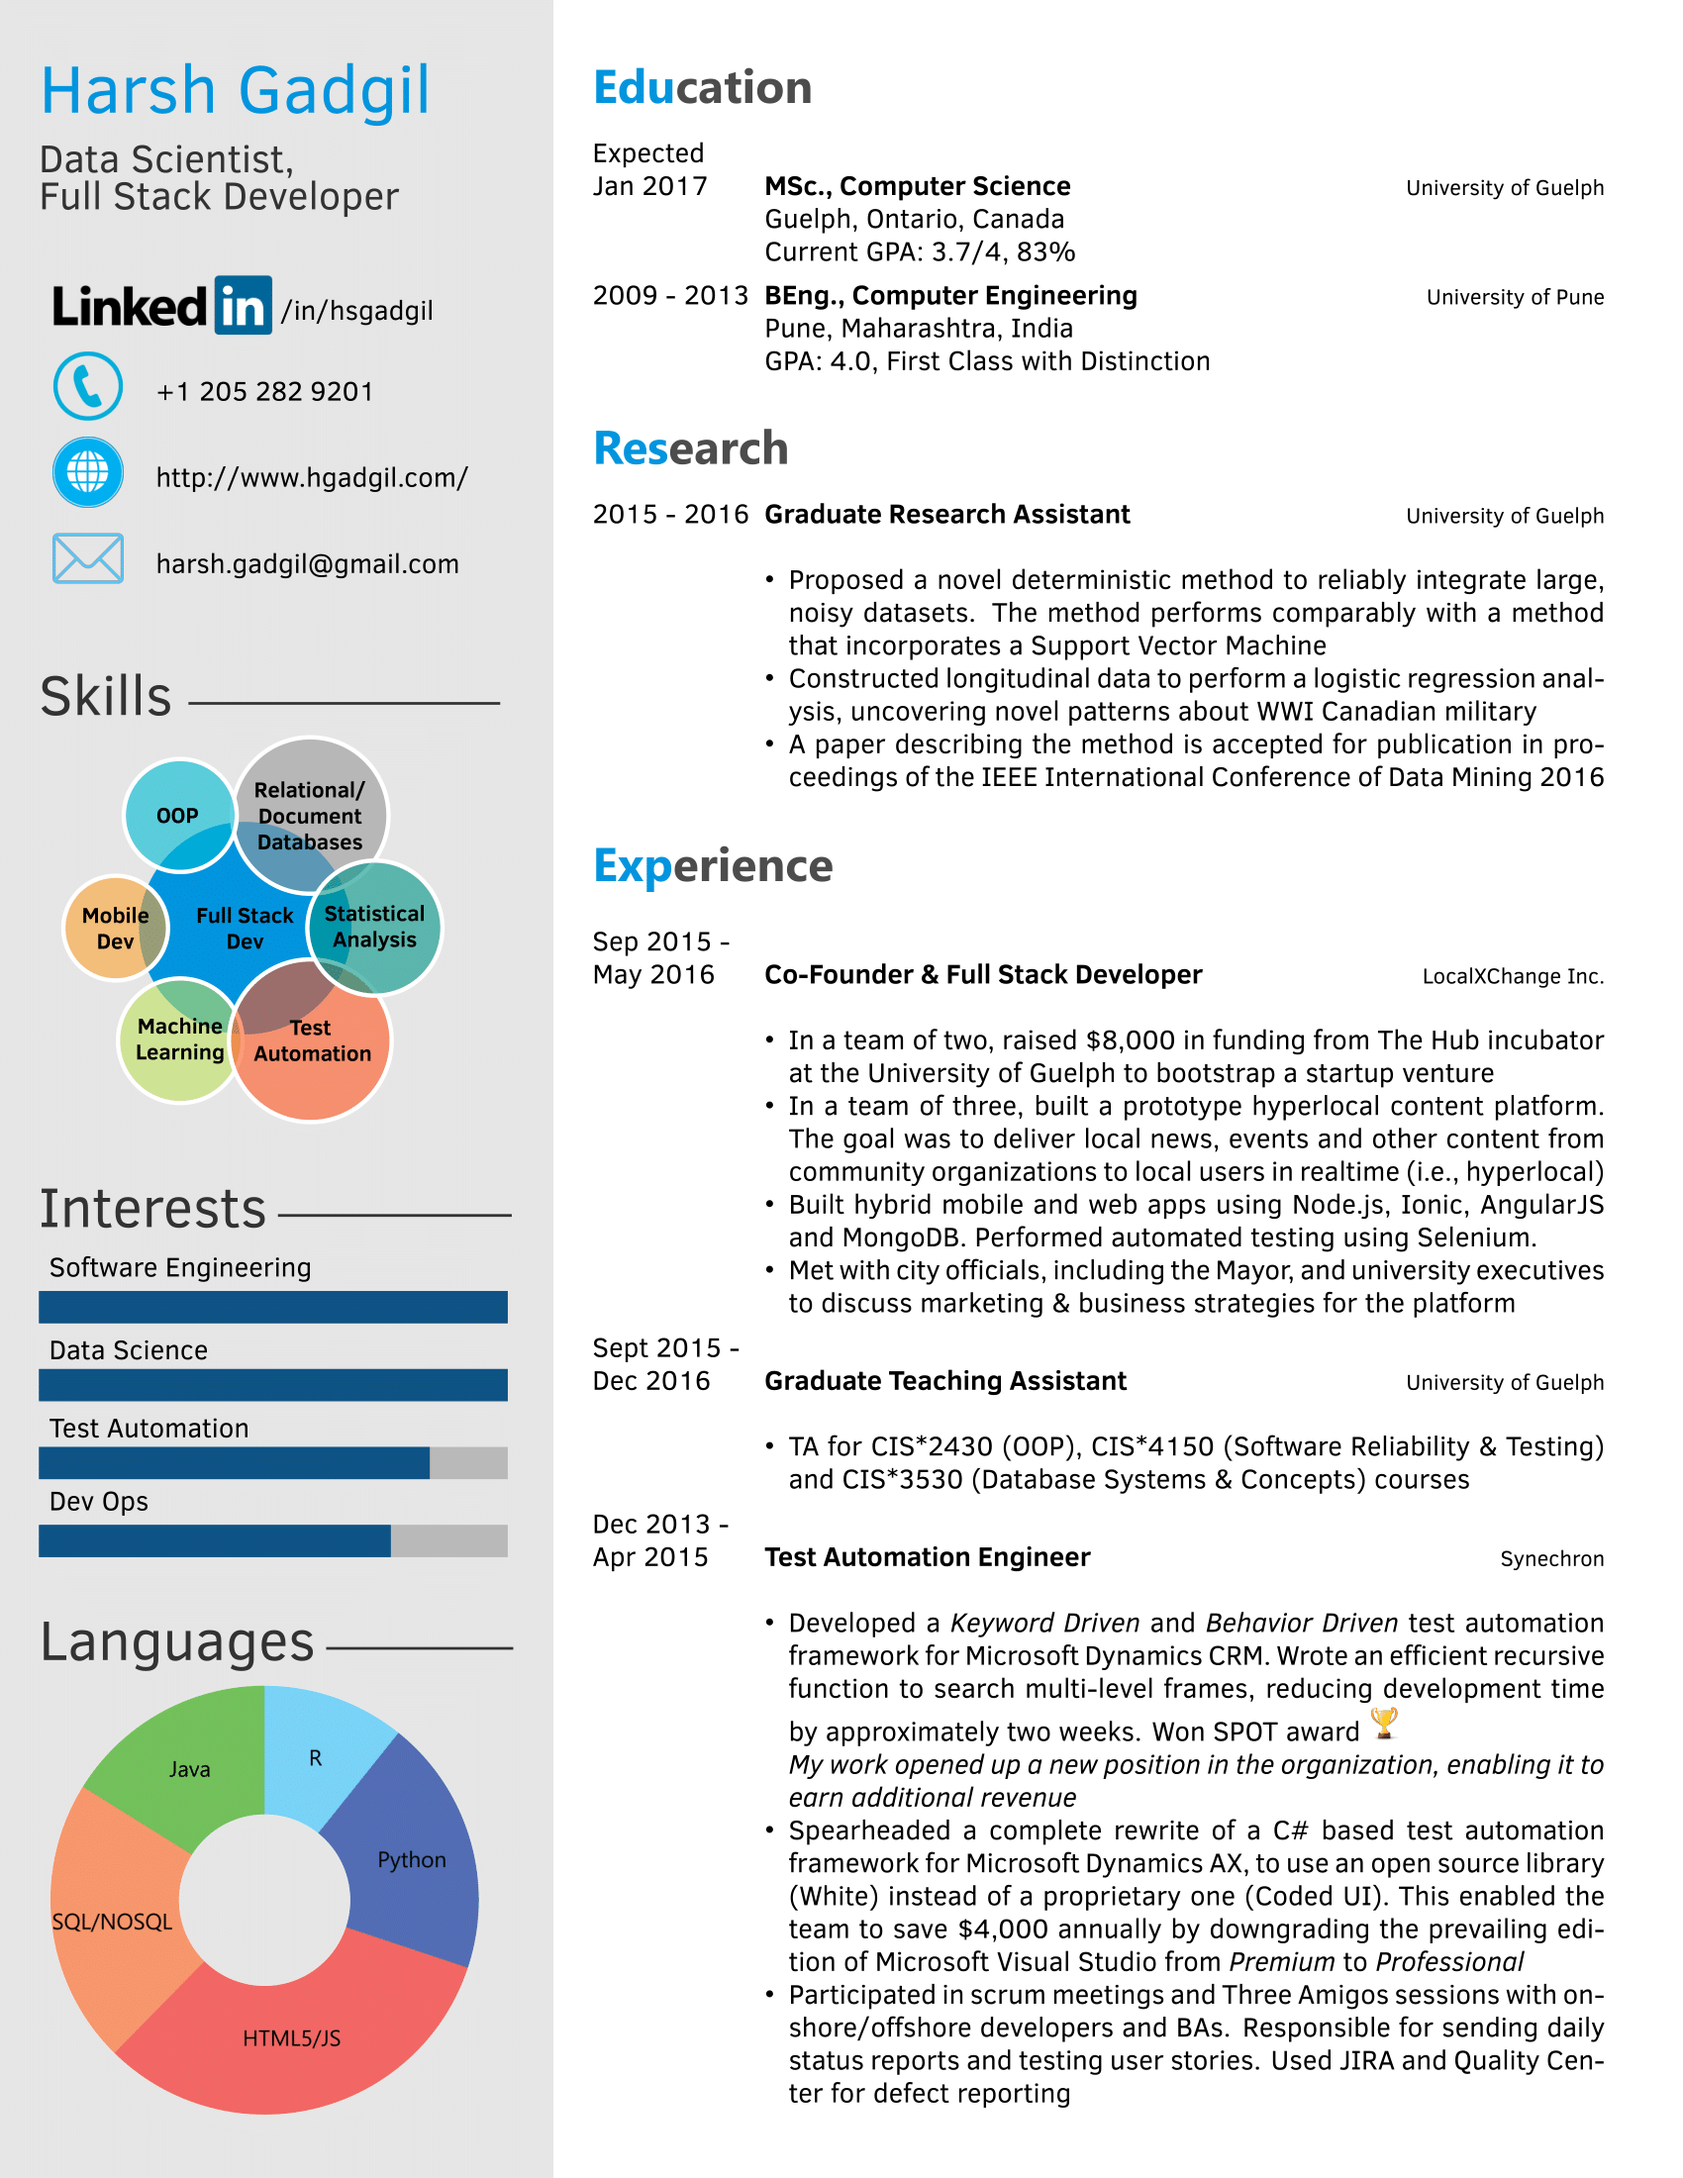
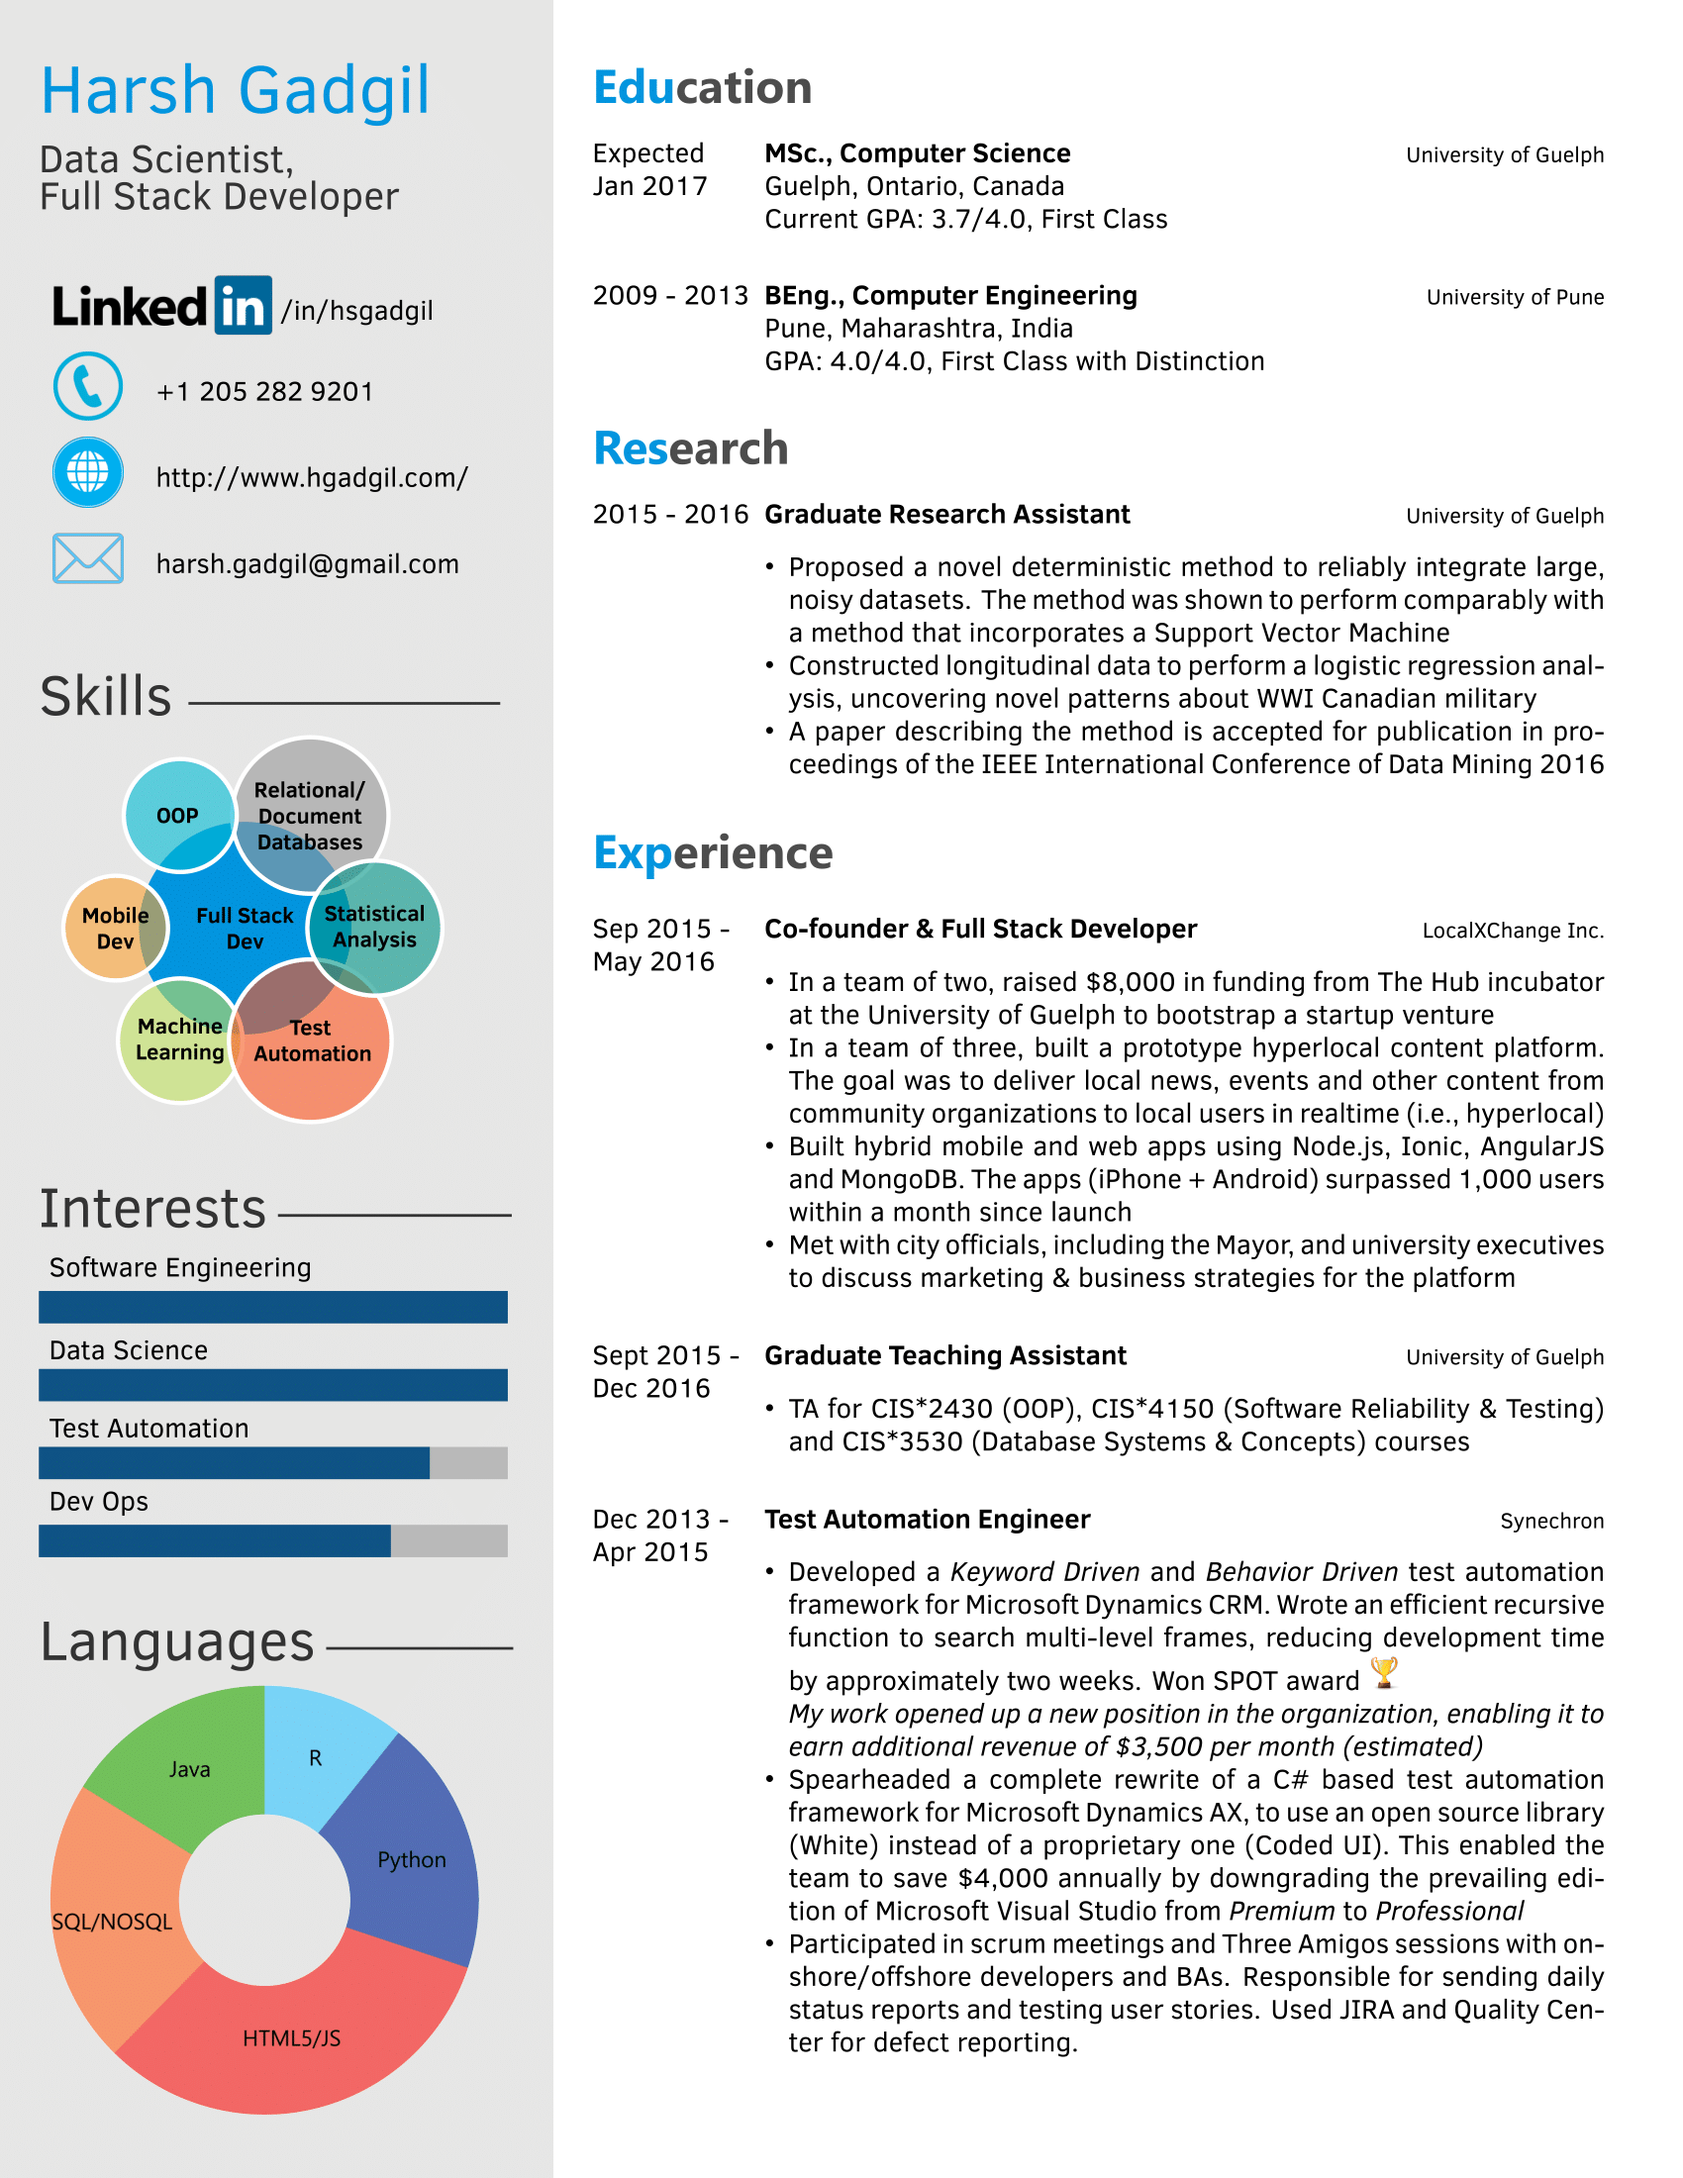
Updated

diff --git a/template.tex b/template.tex
@@ -66,17 +66,20 @@
 
 \begin{twenty} % Environment for a list with descriptions
 	\twentyitem
-    	{Expected \\ Jan 2017}
+    	{Expected}
+        {Jan 2017}
         {MSc., Computer Science}
         {\href{http://www.uoguelph.ca/}{University of Guelph}}
         {Guelph, Ontario, Canada}
-        {Current GPA: 3.7/4, 83\%}
+        {Current GPA: 3.7/4.0, First Class}
+    \\
 	\twentyitem
     	{2009 - 2013}
+		{}
         {BEng., Computer Engineering}
         {\href{http://www.unipune.ac.in/}{University of Pune}}
         {Pune, Maharashtra, India}
-        {GPA: 4.0, First Class with Distinction}
+        {GPA: 4.0/4.0, First Class with Distinction}
 	%\twentyitem{<dates>}{<title>}{<organization>}{<location>}{<description>}
 \end{twenty}
 
@@ -85,12 +88,13 @@
 \begin{twenty}
 	\twentyitem
     	{2015 - 2016}
+		{}
         {Graduate Research Assistant}
         {\href{http://www.uoguelph.ca/}{University of Guelph}}
         {}
         {
         {\begin{itemize}
-        \item Proposed a novel deterministic method to reliably integrate large, noisy datasets. The method performs comparably with a method that incorporates a Support Vector Machine
+        \item Proposed a novel deterministic method to reliably integrate large, noisy datasets. The method was shown to perform comparably with a method that incorporates a Support Vector Machine
         \item Constructed longitudinal data to perform a logistic regression analysis, uncovering novel patterns about WWI Canadian military
         \item A paper describing the method is accepted for publication in proceedings of the IEEE International Conference of Data Mining 2016
     \end{itemize}}
@@ -105,21 +109,23 @@
 
 \begin{twenty} % Environment for a list with descriptions
 	\twentyitem
-    	{Sep 2015 - \\May 2016}
-        {Co-Founder \& Full Stack Developer}
+    	{Sep 2015 -}
+		{May 2016}
+        {Co-founder \& Full Stack Developer}
         {\href{http://www.localxchange.ca/}{LocalXChange Inc.}}
         {}
         {
         {\begin{itemize}
         \item In a team of two, raised \$8,000 in funding from The Hub incubator at the University of Guelph to bootstrap a startup venture
         \item In a team of three, built a prototype hyperlocal content platform. The goal was to deliver local news, events and other content from community organizations to local users in realtime (i.e., hyperlocal)
-        \item Built hybrid mobile and web apps using Node.js, Ionic, AngularJS and MongoDB. Performed automated testing using Selenium.
+        \item Built hybrid mobile and web apps using Node.js, Ionic, AngularJS and MongoDB. The apps (iPhone + Android) surpassed 1,000 users within a month since launch
         \item Met with city officials, including the Mayor, and university executives to discuss marketing \& business strategies for the platform 
     \end{itemize}}
         }
-        
+    \\   
     \twentyitem
-   		{Sept 2015 - \\ Dec 2016}
+   		{Sept 2015 -}
+		{Dec 2016}
         {Graduate Teaching Assistant}
         {\href{http://www.uoguelph.ca}{University of Guelph}}
         {}
@@ -128,9 +134,10 @@
         \item TA for CIS*2430 (OOP), CIS*4150 (Software Reliability \& Testing) and CIS*3530 (Database Systems \& Concepts) courses
     \end{itemize}}
         }
-        
+     \\
      \twentyitem
-   		{Dec 2013 - \\ Apr 2015}
+   		{Dec 2013 -}
+		{Apr 2015}
         {Test Automation Engineer}
         {\href{http://www.synechron.com/}{Synechron}}
         {}
@@ -138,9 +145,9 @@
         \begin{itemize}
         \item Developed a \textit{Keyword Driven} and \textit{Behavior Driven} test automation framework for \href{https://www.microsoft.com/en-ca/dynamics/crm.aspx}{Microsoft Dynamics CRM}. Wrote an efficient recursive function to search multi-level frames, reducing development time by approximately two weeks. Won SPOT award {\includegraphics[scale=0.05]{img/trophy.png}}
         
-        \textit{My work opened up a new position in the organization, enabling it to earn additional revenue}
+        \textit{My work opened up a new position in the organization, enabling it to earn additional revenue of \$3,500 per month (estimated)}
         \item Spearheaded a complete rewrite of a C\# based test automation framework for \href{https://www.microsoft.com/en-ca/dynamics/erp-ax-overview.aspx}{Microsoft Dynamics AX}, to use an open source library (White) instead of a proprietary one (Coded UI). This enabled the team to save \$4,000 annually by downgrading the prevailing edition of Microsoft Visual Studio from \textit{Premium} to \textit{Professional}
-        \item Participated in scrum meetings and Three Amigos sessions with onshore/offshore developers and BAs. Responsible for sending daily status reports and testing user stories. Used JIRA and Quality Center for defect reporting
+        \item Participated in scrum meetings and Three Amigos sessions with onshore/offshore developers and BAs. Responsible for sending daily status reports and testing user stories. Used JIRA and Quality Center for defect reporting.
     \end{itemize}
     	}
         
